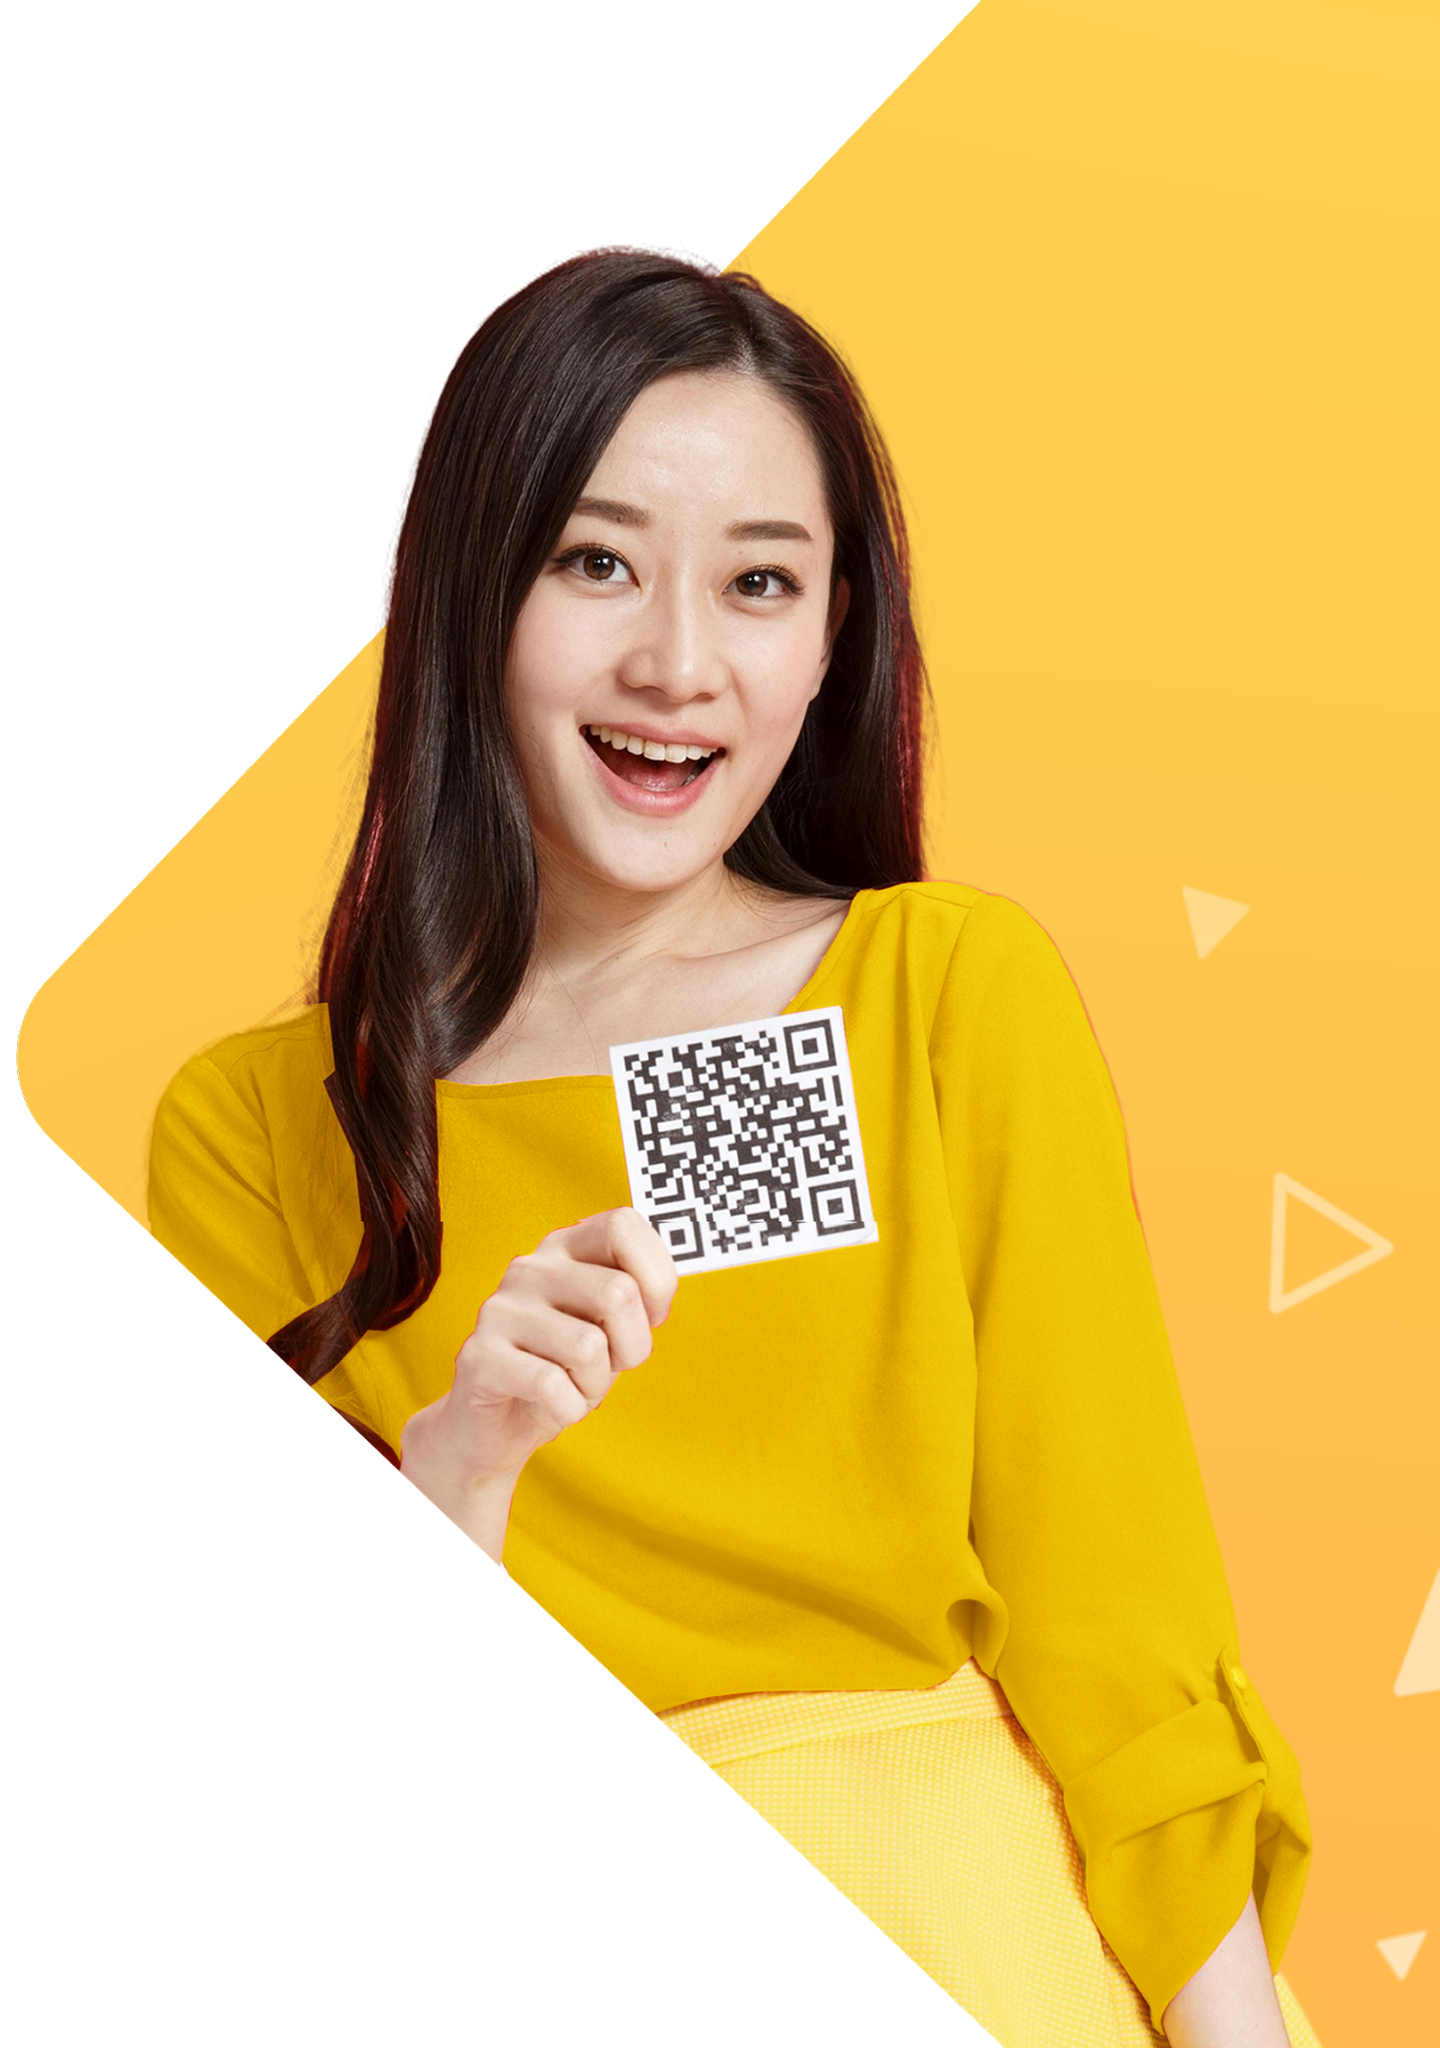
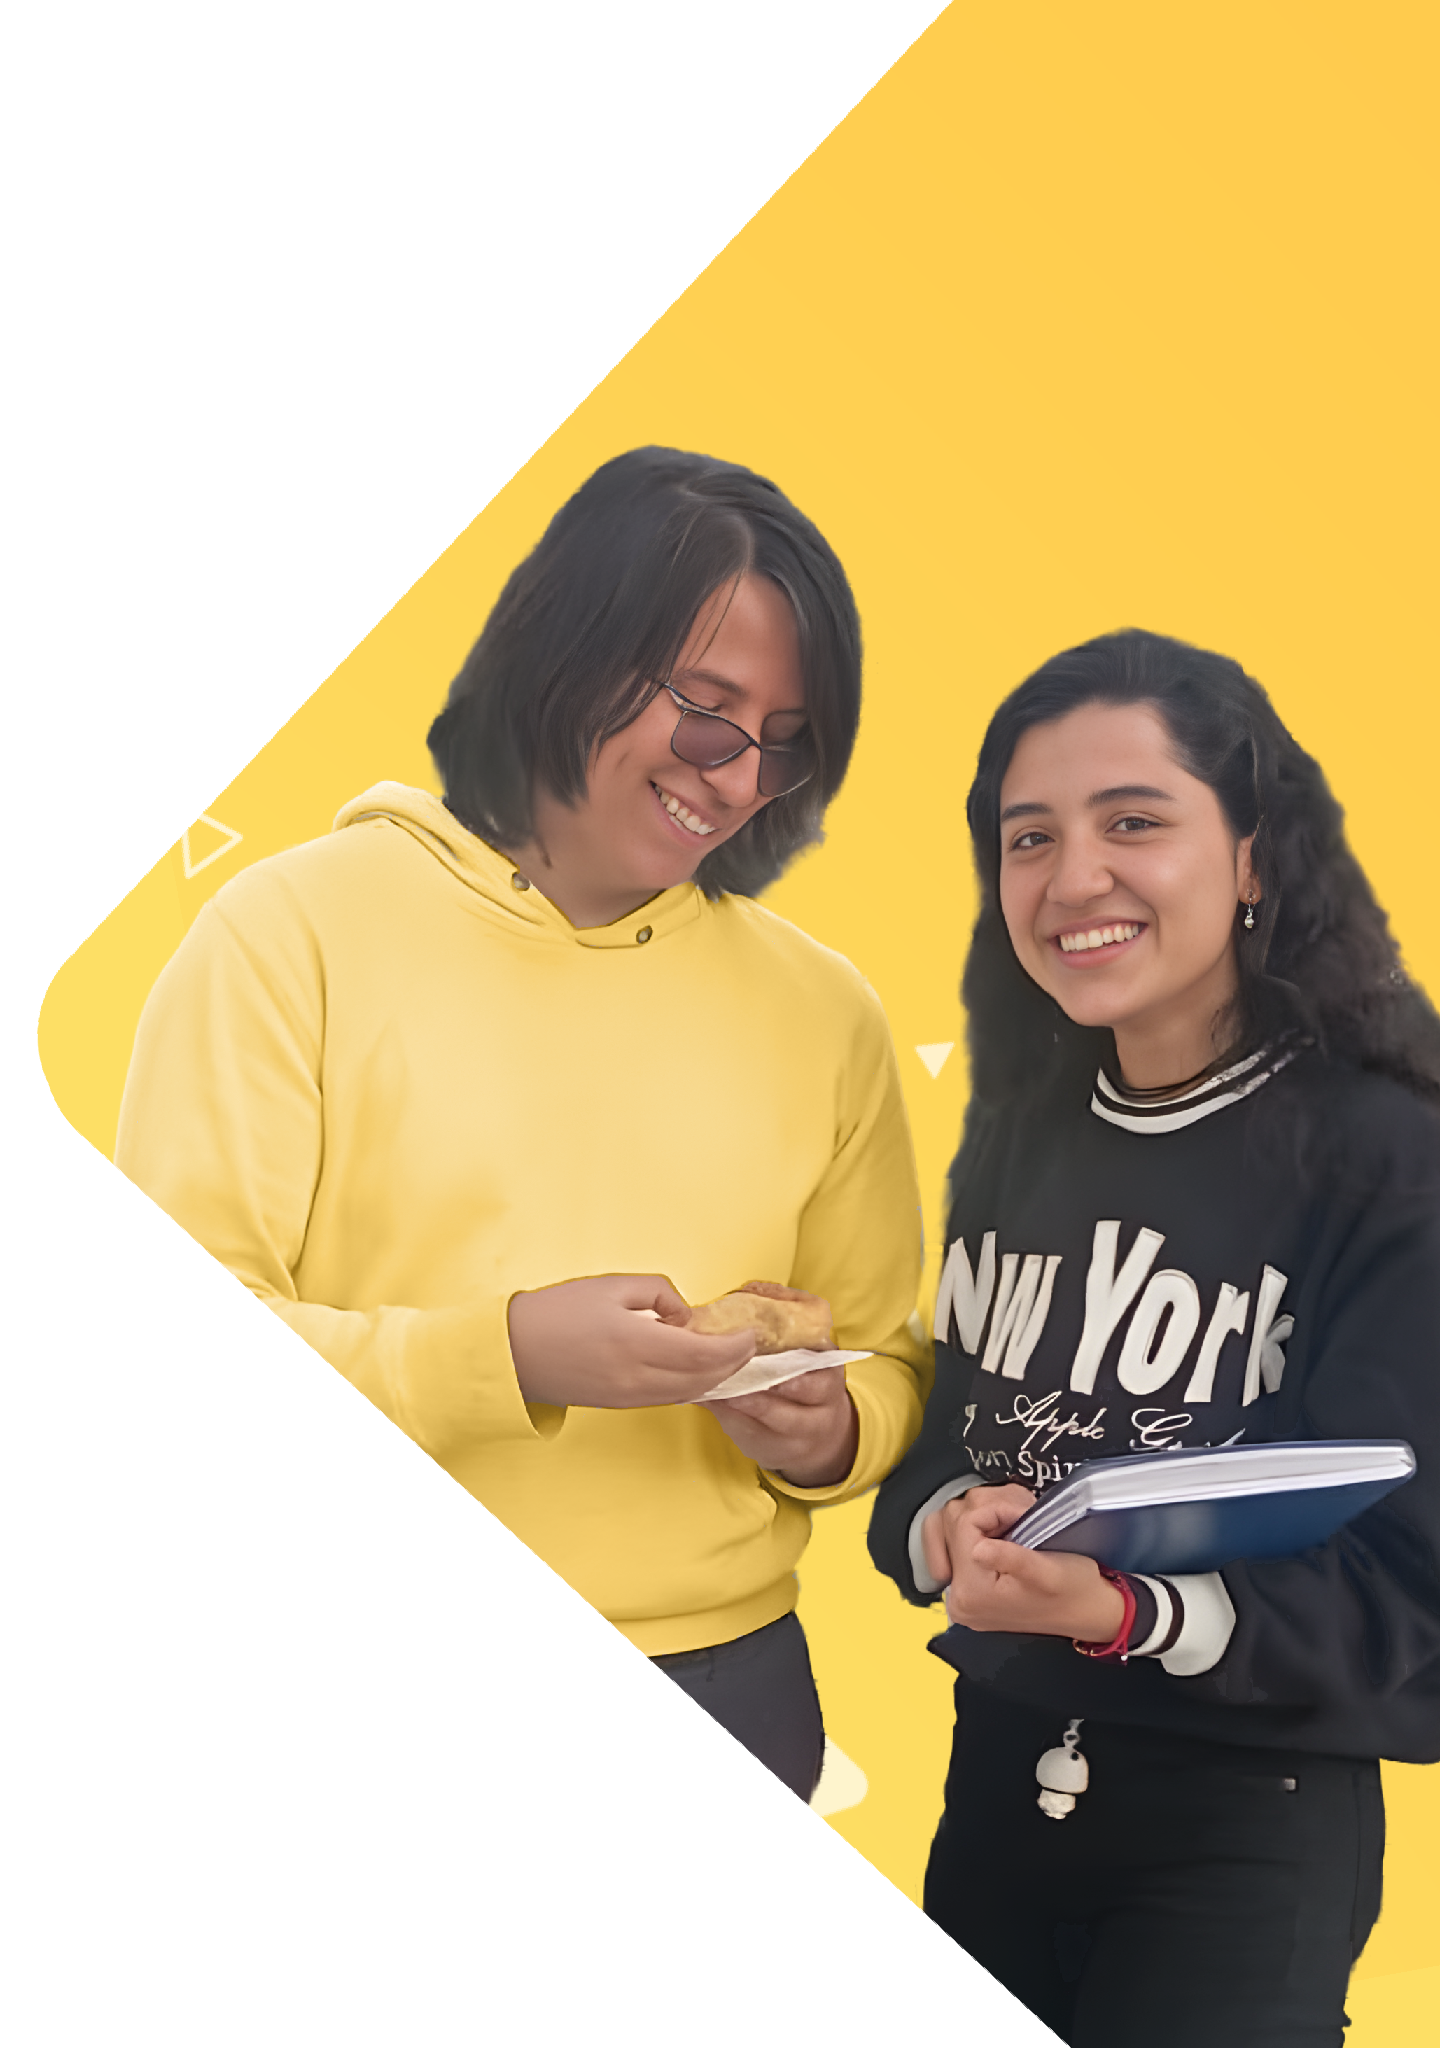
feat (fix): Change current Sign Up picture, for a classmate photo

diff --git a/src/App.tsx b/src/App.tsx
@@ -33,12 +33,11 @@ function App() {
 
                     <Route element={<ProtectedRoute />}>
                         <Route element={<Layout />}>
-                            <Route path="/catalog" element={<div>Catalog</div>} />
+                            <Route path="/home" element={<div>Catalog</div>} />
                             <Route path="/shoppingCart" element={<div>Shopping Cart</div>} />
                             <Route path="/orders" element={<div>Orders</div>} />
                             <Route path="/chat" element={<div>Chat</div>} />
-                            <Route path="/dashboard" element={<div>Dashboard</div>} />
-                            <Route path="/" element={<Navigate to="/dashboard" replace />} />
+                            <Route path="/" element={<Navigate to="/home" replace />} />
                         </Route>
                     </Route>
 

diff --git a/src/pages/password-recovery/components/emailForm.tsx b/src/pages/password-recovery/components/emailForm.tsx
@@ -1,4 +1,4 @@
-import {Link} from "react-router-dom";
+import {Link, useNavigate} from "react-router-dom";
 import {Undo2} from "lucide-react";
 import StandardInput from "@/lib/input/standarInput";
 import React from "react";
@@ -10,11 +10,13 @@ interface EmailFormProps {
 const EmailForm:React.FC<EmailFormProps> = ({onEmailSent}) => {
     const [email, setEmail] = React.useState('');
     const [loading, setLoading] = React.useState(false);
+    const navigate = useNavigate();
 
     const onSubmit = (e: React.FormEvent) => {
         e.preventDefault();
         onEmailSent(email);
         setLoading(true);
+        navigate('/verificationCode');
         setLoading(false);
     };
 
